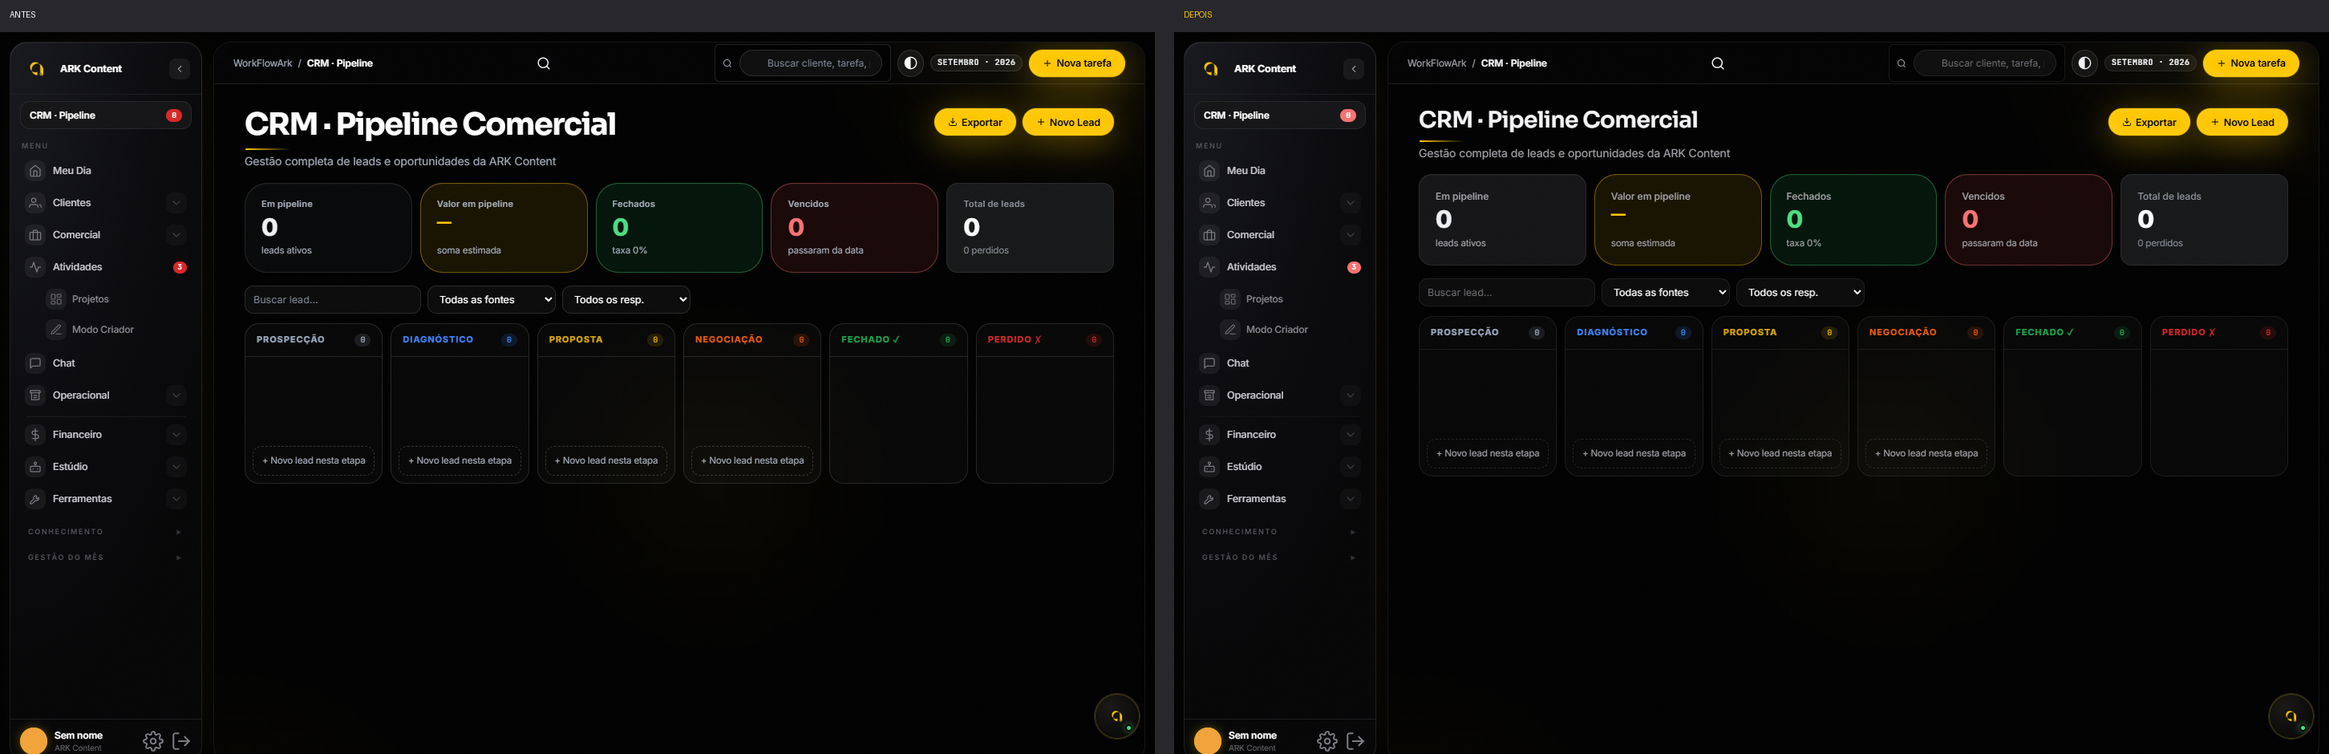
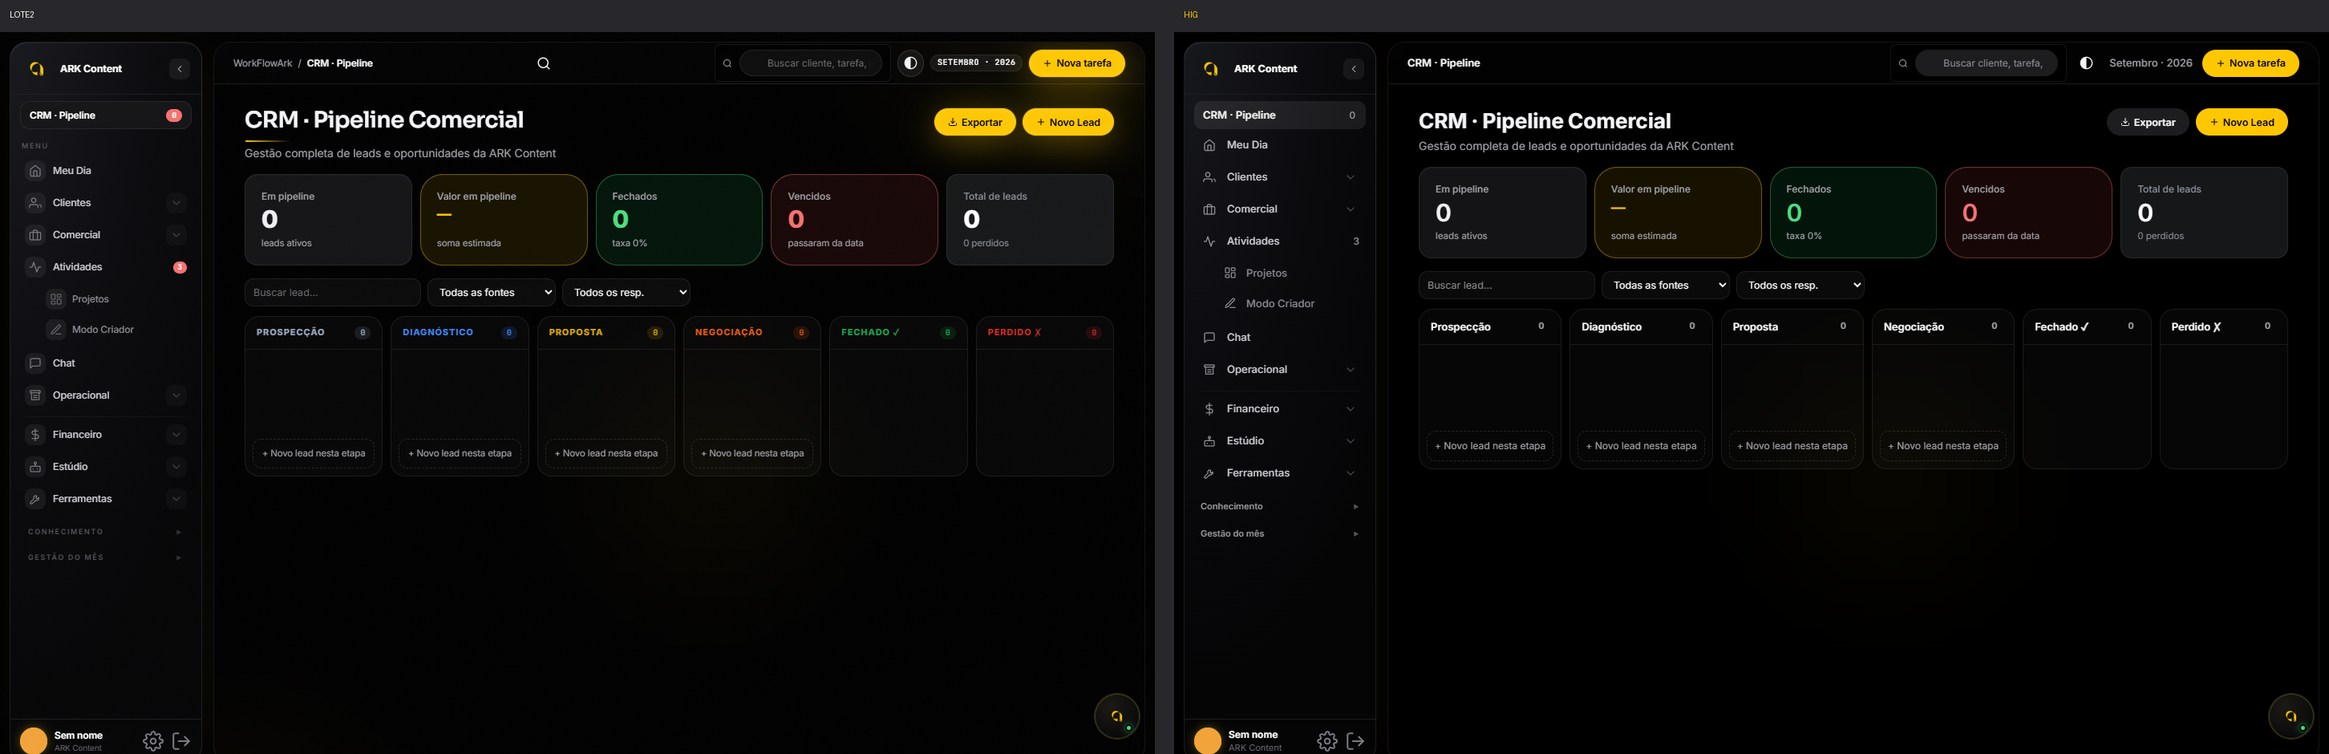
Camada HIG no /app: regras da Apple medidas em 6 telas nos 2 temas, marcador 20260928a-hig-apple
Estudo oficial (52 páginas da HIG) em Documents/WorkFlowArk-Next-2026-09-20/estudo-apple-hig.md.
Nova public/workflowark-hig-20260928a.css, carregada no fim do body:
uma família de texto (Sora só no título da página), pesos 400 a 700,
nada abaixo de 11 px, sem caixa alta nem mono em interface, contraste
4.5:1 com as cores de alto contraste da Apple, amarelo só no item ativo
e na ação principal, contagem da sidebar neutra, sem brilho âmbar,
textura nem esfera no conteúdo, barra do topo sem busca duplicada e sem
o nome do app, botão secundário neutro, foco visível, preferências de
transparência, contraste e movimento do sistema.
Teste deploy/teste-hig.py: 56 violações antes, 0 depois.

diff --git a/public/workflowark-hig-20260928a.css b/public/workflowark-hig-20260928a.css
@@ -1,0 +1,115 @@
+/* WorkFlowArk · camada HIG (28/09/2026).
+   Regras tiradas do estudo oficial da Apple em Documents/WorkFlowArk-Next-2026-09-20/estudo-apple-hig.md
+   (52 páginas da HIG lidas). Carregada no fim do <body> para vencer as camadas antigas; valores vêm de
+   workflowark-tokens-20260927a.css. Teste: python deploy/teste-hig.py
+   Princípios aplicados: uma família de texto (títulos de página em Sora pela marca), pesos de 400 a 700,
+   nada abaixo de 11 px, sem caixa alta, contraste 4.5:1, amarelo só na ação principal e no item ativo,
+   conteúdo sólido sem brilho decorativo, vidro só na navegação, foco visível em tudo. */
+
+/* ---------- Tipografia: uma família, sem caixa alta, sem tracking largo ---------- */
+:is(body.aura-dark,body.aura-light),
+:is(body.aura-dark,body.aura-light) *:not(svg):not(svg *):not(code):not(pre):not(kbd):not(samp){
+  font-family:var(--font-ui)!important;text-transform:none!important;letter-spacing:normal!important}
+:is(body.aura-dark,body.aura-light) :is(.page-head h1,.page-title h1,.aura-saud){
+  font-family:var(--font-title)!important;letter-spacing:-.015em!important}
+:is(body.aura-dark,body.aura-light) :is(h1,h2,h3){letter-spacing:-.01em!important}
+/* Pesos: Regular a Bold. 800 e 900 (178 usos no código) caem para 700 */
+:is(body.aura-dark,body.aura-light) :is([style*="font-weight:800"],[style*="font-weight: 800"],[style*="font-weight:900"],[style*="font-weight: 900"]){font-weight:700!important}
+:is(body.aura-dark,body.aura-light) :is(h4,h5,h6,.v,.n,.dec-n,.dec-urg,.av,.nxc-av,.set-sect-t,.kpi .v,.ahc .n){font-weight:600!important}
+:is(body.aura-dark,body.aura-light) :is(h1,h2,h3,b,strong){font-weight:700!important}
+/* Mínimo de 11 px */
+:is(body.aura-dark,body.aura-light) :is([style*="font-size:7"],[style*="font-size:8"],[style*="font-size:9"],[style*="font-size:10px"],[style*="font-size:10.5px"],[style*="font-size: 9"],[style*="font-size: 10px"]){font-size:11px!important}
+:is(body.aura-dark,body.aura-light) :is(.badge,.ct,.rl,.tc-av,.dec-cli,.dec-urg,.tkacth,.form-label){font-size:11px!important}
+:is(body.aura-dark,body.aura-light) p.muted{font-size:12px!important}
+:is(body.aura-dark,body.aura-light) :is(.av,.tc-av,.nxc-av,i.av){font-size:11px!important;line-height:1!important}
+
+/* ---------- Conteúdo sólido: sem brilho, textura nem esfera decorativa ---------- */
+:is(body.aura-dark,body.aura-light) .main::before,
+:is(body.aura-dark,body.aura-light) .main::after,
+:is(body.aura-dark,body.aura-light) .app::after,
+:is(body.aura-dark,body.aura-light) .aura-hero .sphere,
+:is(body.aura-dark,body.aura-light) .page-head h1::after{display:none!important}
+:is(body.aura-dark,body.aura-light) .aura-hero{background:var(--hero)!important;border:1px solid var(--line)!important;border-radius:16px!important;box-shadow:none!important}
+body.aura-light .aura-hero{border-color:transparent!important}
+
+/* ---------- Sidebar (sidebars): rótulos curtos, amarelo só no item ativo, contagem neutra ---------- */
+:is(body.aura-dark,body.aura-light) .side > .nav-label:not(.collap){display:none!important}
+:is(body.aura-dark,body.aura-light) .side .nav-label{font-size:11px!important;font-weight:600!important;color:var(--side-mute)!important;padding:14px 12px 4px!important}
+:is(body.aura-dark,body.aura-light) .side :is(.navitem,.subitem){font-size:13px!important;border-radius:8px!important;box-shadow:none!important}
+:is(body.aura-dark,body.aura-light) .side :is(.navitem,.subitem)::before{display:none!important}
+:is(body.aura-dark,body.aura-light) .side :is(.navitem,.subitem) svg{color:var(--side-mute)!important;background:transparent!important}
+:is(body.aura-dark,body.aura-light) .side :is(.navitem,.subitem):not(.active):hover{background:var(--side-fill)!important}
+/* Folha ativa: o único amarelo da barra */
+:is(body.aura-dark,body.aura-light) .side .navitem.active[data-nav]:not([data-nav=""]),
+:is(body.aura-dark,body.aura-light) .side .subitem.active{
+  background:var(--yel)!important;color:var(--on-accent)!important;font-weight:600!important}
+:is(body.aura-dark,body.aura-light) .side .navitem.active[data-nav]:not([data-nav=""]) svg,
+:is(body.aura-dark,body.aura-light) .side .subitem.active svg{color:var(--on-accent)!important}
+/* Grupo que contém a folha ativa: só texto forte, sem fundo */
+:is(body.aura-dark,body.aura-light) .side .navitem.active:not([data-nav]),
+:is(body.aura-dark,body.aura-light) .side .navitem.active[data-nav=""]{
+  background:transparent!important;color:var(--side-txt)!important;font-weight:600!important}
+/* Contagem de volume não é alerta: texto secundário, sem pílula vermelha */
+:is(body.aura-dark,body.aura-light) .side :is(.badge,.navitem .badge){
+  background:transparent!important;color:var(--side-mute)!important;border:0!important;box-shadow:none!important;
+  font-size:12px!important;font-weight:500!important;font-variant-numeric:tabular-nums;padding:0 2px!important;min-width:0!important}
+:is(body.aura-dark,body.aura-light) .side :is(.navitem.active,.subitem.active) .badge{color:var(--on-accent)!important}
+:is(body.aura-dark,body.aura-light) .side .crm-pill{background:var(--side-fill)!important;border:0!important;border-radius:10px!important;box-shadow:none!important;font-size:13px!important;font-weight:600!important;color:var(--side-txt)!important}
+
+/* ---------- Barra do topo (toolbars): três zonas, uma ação principal, controles monocromáticos ---------- */
+@media (min-width:901px){
+  :is(body.aura-dark,body.aura-light) #search-toggle-mobile{display:none!important}
+}
+:is(body.aura-dark,body.aura-light) .crumbs > span:first-child,
+:is(body.aura-dark,body.aura-light) .crumbs > span:first-child + .sep{display:none!important}
+:is(body.aura-dark,body.aura-light) .crumbs .here{font-size:13px!important;font-weight:600!important;color:var(--ink)!important}
+:is(body.aura-dark,body.aura-light) .tb-pill{background:transparent!important;border:0!important;color:var(--mute)!important;font-size:13px!important;font-weight:500!important;padding:0 4px!important}
+:is(body.aura-dark,body.aura-light) :is(.tb-btn,.icobtn,.dec-btn,.gbtn){box-shadow:none!important}
+:is(body.aura-dark,body.aura-light) .topbar :is(.tb-btn.tb-ic,.icobtn){background:transparent!important;border-color:transparent!important}
+:is(body.aura-dark,body.aura-light) .topbar :is(.tb-btn.tb-ic,.icobtn):hover{background:var(--fill)!important}
+:is(body.aura-dark,body.aura-light) .tb-search input{background:var(--fill)!important;border-color:transparent!important;box-shadow:none!important}
+
+/* ---------- Cabeçalho da página ---------- */
+:is(body.aura-dark,body.aura-light) :is(.page-head h1,.page-title h1){font-size:26px!important;line-height:32px!important;font-weight:700!important;padding-bottom:0!important;color:var(--ink)!important}
+:is(body.aura-dark,body.aura-light) :is(.page-head p,.page-title p){font-size:14px!important;color:var(--mute)!important}
+:is(body.aura-dark,body.aura-light) .aura-saud{font-weight:700!important}
+
+/* ---------- Kanban, CRM, Configurações: cabeçalhos em texto, não em cartaz ---------- */
+:is(body.aura-dark,body.aura-light) :is(.task-col h4,.crm-col h4,.set-sect-t){font-size:13px!important;color:var(--ink)!important}
+:is(body.aura-dark,body.aura-light) .set-sect-t{margin-top:18px!important}
+:is(body.aura-dark,body.aura-light) :is(.task-col .ct,.crm-col .ct,.ct){background:transparent!important;color:var(--mute)!important;font-variant-numeric:tabular-nums}
+:is(body.aura-dark,body.aura-light) :is(.muted,.tc-vazio,.tkvazio){color:var(--mute)!important}
+:is(body.aura-dark,body.aura-light) .dec-urg{font-weight:600!important}
+
+/* ---------- Modal como sheet: camada elevada, um contorno, sem brilho ---------- */
+:is(body.aura-dark,body.aura-light) :is(.modal,.crm-mbox){background:var(--elev)!important;border:1px solid var(--line)!important;border-radius:16px!important}
+
+/* ---------- Foco visível (focus-and-selection, keyboards) ---------- */
+:is(body.aura-dark,body.aura-light) :is(button,a,input,select,textarea,[tabindex],.navitem,.subitem):focus-visible{
+  outline:2px solid var(--focus)!important;outline-offset:2px!important}
+
+/* ---------- Preferências do sistema (accessibility, materials) ---------- */
+@media (prefers-reduced-transparency:reduce){
+  :is(body.aura-dark,body.aura-light) :is(.side,.topbar,.modal-bg,.crm-modal){backdrop-filter:none!important;-webkit-backdrop-filter:none!important}
+  body.aura-dark .side{background:#111113!important}
+  body.aura-light .side{background:#f2f2f7!important}
+}
+@media (prefers-reduced-motion:reduce){
+  :is(body.aura-dark,body.aura-light) *{animation-duration:.01ms!important;animation-iteration-count:1!important;transition-duration:.12s!important}
+}
+
+/* ---------- Contraste 4.5:1 onde a cor era fixa (accessibility, color: variantes de alto contraste) ---------- */
+body.aura-dark .dec-urg.u2{background:rgba(255,66,69,.16)!important;color:#FF6165!important}
+body.aura-dark .dec-urg.u1{background:rgba(255,214,0,.14)!important;color:#FFD600!important}
+body.aura-light .dec-urg.u2{background:#fdecec!important;color:#B3121F!important}
+body.aura-light .dec-urg.u1{background:#fff6d6!important;color:#7A5200!important}
+body.aura-light #page-tarefas .tf-kpis .kpi.yel .v{color:var(--yel-d)!important}
+body.aura-light #page-tarefas .tf-kpis .kpi.green .v{color:#008932!important}
+body.aura-light .kpi:is(.red,.green,.yel) :is(.l,.d){color:rgba(0,0,0,.72)!important}
+:is(body.aura-dark,body.aura-light) #page-cliente span[style*="86868b"]{color:var(--mute)!important}
+body.aura-light .nxc-tab.on{color:#7A5200!important}
+
+/* ---------- Botões (buttons): no máximo dois em destaque por tela; o secundário é neutro ---------- */
+:is(body.aura-dark,body.aura-light) .tb-btn.alt{background:var(--fill)!important;color:var(--ink)!important;border-color:transparent!important}
+:is(body.aura-dark,body.aura-light) .tb-btn.alt:hover{background:var(--fill-2)!important}
+:is(body.aura-dark,body.aura-light) .crm-add-btn{white-space:nowrap;overflow:hidden;text-overflow:ellipsis;font-size:12px!important}

diff --git a/public/workflowark-tokens-20260927a.css b/public/workflowark-tokens-20260927a.css
@@ -3,13 +3,15 @@
    Tela nova usa estas variáveis; cor solta no código é erro. Teste: deploy/teste-tokens.py
    Valores: doc 11 (Apple no /app) + referência Apple DESIGN.md. Amarelo é o único acento;
    verde e vermelho só em status. Fundo escuro #000 (pedido do Gabriel: preto absoluto). Fundo claro #fbfbfd (o #f5f5f7 foi recusado como off-white gasto).
-   Escala: título 28/600, seção 17/600, corpo 14, rótulo 12 sem caixa alta; raio 16 cartão, 10 botão, 999 chip. */
+   Escala: título 28/600, seção 17/600, corpo 14, rótulo 12 sem caixa alta; raio 16 cartão, 10 botão, 999 chip.
+   Camada HIG (28/09): --mute-2 e --yel-d passam 4.5:1 nos dois temas (cinza #6C6C70 e amarelo #A16A00 são os de alto contraste da Apple);
+   --fill e --sep são valores próprios (a Apple não publica hex dos tokens semânticos). */
 :root{
   --card:var(--surface);
   --bd:var(--line);
   --o:var(--orange);
   --yel:#FFC700;
-  --yel-d:#d4a300;
+  --yel-d:#A16A00;
   --yel-soft:#fff8dc;
   --yel-bg:#fffbeb;
   --red:#dc2626;
@@ -50,7 +52,7 @@
   --ink-2:#1d1d1f;
   --txt:#1d1d1f;
   --mute:#6e6e73;
-  --mute-2:#8e8e93;
+  --mute-2:#6C6C70;
   --line:rgba(0,0,0,.06);
   --line-2:rgba(0,0,0,.1);
   --surface-2:#f5f5f7;
@@ -66,6 +68,14 @@
   --r-chip:999px;
   --sh-panel:0 24px 64px rgba(0,0,0,.18);
   --on-accent:#131316;
+  --font-ui:'Inter',-apple-system,BlinkMacSystemFont,system-ui,'Segoe UI',sans-serif;
+  --font-title:'Sora',var(--font-ui);
+  --fill:rgba(120,120,128,.12);
+  --fill-2:rgba(120,120,128,.2);
+  --focus:#A16A00;
+  --elev:#ffffff;
+  --hero:#1C1C1E;
+  --sep:rgba(60,60,67,.18);
 }
 body.aura-dark{
   --bg:#000000;
@@ -74,7 +84,7 @@ body.aura-dark{
   --ink-2:#F5F5F7;
   --txt:#F5F5F7;
   --mute:#A1A1A6;
-  --mute-2:#6E6E73;
+  --mute-2:#8E8E93;
   --line:rgba(255,255,255,.08);
   --line-2:rgba(255,255,255,.12);
   --yel-soft:rgba(255,199,0,.14);
@@ -94,4 +104,22 @@ body.aura-dark{
   --sh-panel:0 24px 64px rgba(0,0,0,.45);
   --card:var(--surface);
   --bd:var(--line);
+  --fill:rgba(120,120,128,.24);
+  --fill-2:rgba(120,120,128,.32);
+  --focus:#FFD600;
+  --yel-d:#FFD600;
+  --elev:#1C1C1F;
+  --hero:var(--surface);
+  --sep:rgba(84,84,88,.6);
+}
+/* Aumentar contraste do sistema (accessibility): bordas e texto secundário mais fortes */
+@media (prefers-contrast:more){
+  body.aura-dark{--line:rgba(255,255,255,.28);--mute:#C7C7CC}
+  body.aura-light{--line:rgba(0,0,0,.28);--mute:#48484A}
+}
+/* Sidebar: escura nos dois temas, então tem paleta própria (texto 4.5:1 sobre o fundo dela) */
+.side{
+  --side-txt:rgba(255,255,255,.92);
+  --side-mute:#98989D;
+  --side-fill:rgba(255,255,255,.08);
 }

diff --git a/public/workflowark.html b/public/workflowark.html
@@ -1,4 +1,4 @@
-<!-- build 20260927a-tokens-apple -->
+<!-- build 20260928a-hig-apple -->
 <html lang="pt-BR">
 <head>
 <meta charset="utf-8">
@@ -46,7 +46,7 @@
 <link rel="preconnect" href="https://fonts.googleapis.com">
 <link rel="preconnect" href="https://fonts.gstatic.com" crossorigin>
 <link rel="preconnect" href="https://cdn.jsdelivr.net">
-<link href="https://fonts.googleapis.com/css2?family=Inter:wght@400;500;600;700;800&family=Sora:wght@400;500;600;700;800&family=JetBrains+Mono:wght@500;600&display=swap" rel="stylesheet">
+<link href="https://fonts.googleapis.com/css2?family=Inter:wght@400;500;600;700&family=Sora:wght@400;500;600;700&family=JetBrains+Mono:wght@500;600&display=swap" rel="stylesheet">
 <script src="https://cdn.jsdelivr.net/npm/animejs@4/lib/anime.iife.min.js" defer></script>
 <link rel="stylesheet" href="workflowark-tokens-20260927a.css">
 <link rel="stylesheet" href="workflowark-20260927a.css">
@@ -4749,5 +4749,6 @@ function wfaSetTheme(t){
 <script type="module">import * as C from "./workflowark-criador-20260926a.js";window.WFA_CRIADOR=C;try{if(document.querySelector("#page-criador.active"))criadorRender();}catch(e){}</script>
 <script type="module">import * as F from "./workflowark-financeiro-20260926a.js";window.WFA_FIN=F;try{fxRender();}catch(e){}try{iniRender();}catch(e){}</script>
 <script src="workflowark-cliente-20260922d.js" defer></script>
+<link rel="stylesheet" href="workflowark-hig-20260928a.css">
 </body>
 </html>

diff --git a/deploy/teste-hig.py b/deploy/teste-hig.py
@@ -1,0 +1,107 @@
+# -*- coding: utf-8 -*-
+"""Regras da Apple HIG medidas no /app (estudo em Documents/WorkFlowArk-Next-2026-09-20/estudo-apple-hig.md).
+Uso: python deploy/teste-hig.py [url-base] [--relatorio]
+Sem url: sobe public/ num servidor local com carteira sintética. Sai 1 se alguma regra quebrar.
+
+Por tela (Meu Dia, Kanban, modal da tarefa, CRM, Área do Cliente, Configurações) nos temas claro e escuro:
+  1. nenhum texto visível abaixo de 11 px                       (typography: mínimo macOS 10, iOS 11)
+  2. nenhum texto em caixa alta por CSS                          (typography, writing)
+  3. nenhum texto com peso acima de 700                          (typography: Regular a Bold)
+  4. nenhuma fonte mono em texto de interface                    (typography: minimizar famílias)
+  5. contraste de texto >= 4.5:1 (>= 3:1 se >= 18 px ou >= 700)  (accessibility)
+  6. no máximo 1 item com fundo amarelo na sidebar               (sidebars, color: acento só no ativo)
+"""
+import sys, os, json, threading, http.server, socketserver, functools
+from playwright.sync_api import sync_playwright
+
+os.chdir(os.path.join(os.path.dirname(os.path.abspath(__file__)), '..'))
+args = [a for a in sys.argv[1:] if not a.startswith('--')]
+RELATORIO = '--relatorio' in sys.argv
+base = args[0] if args else None
+srv = None
+if not base:
+    class Q(http.server.SimpleHTTPRequestHandler):
+        def log_message(self, *a): pass
+    socketserver.TCPServer.allow_reuse_address = True
+    srv = socketserver.TCPServer(('127.0.0.1', 5193), functools.partial(Q, directory='public'))
+    threading.Thread(target=srv.serve_forever, daemon=True).start()
+    base = 'http://127.0.0.1:5193'
+
+sess = {'access_token': 't', 'refresh_token': 't', 'token_type': 'bearer', 'expires_in': 3600, 'expires_at': 4102444800,
+        'user': {'id': '0', 'email': 'teste@local', 'user_metadata': {'full_name': 'Equipe Demo'}}}
+tarefas = [
+    {'id': 't1', 'title': 'Reel de lançamento', 'status': 'andamento', 'resp': 'Ana Souza', 'clienteId': 'vivenda', 'data': '2026-09-28', 'formato': 'reel', 'up': '2026-09-27T12:00:00.000Z', 'desc': 'Gravar na loja.'},
+    {'id': 't2', 'title': 'Story da semana', 'status': 'homologcli', 'resp': 'Bruno Lima', 'clienteId': 'vivenda', 'data': '2026-09-27', 'formato': 'story', 'up': '2026-09-27T12:00:00.000Z'},
+    {'id': 't4', 'title': 'Relatório de anúncios', 'status': 'backlog', 'resp': 'Carla Dias', 'clienteId': 'fercon', 'data': '2026-09-25', 'up': '2026-09-27T12:00:00.000Z'},
+]
+
+MEDIR = r"""() => {
+  const lum = c => { const m = c.match(/[\d.]+/g); if (!m) return null; const [r,g,b] = m.slice(0,3).map(v => { v = v/255; return v <= .03928 ? v/12.92 : Math.pow((v+.055)/1.055, 2.4); }); return .2126*r + .7152*g + .0722*b; };
+  const alfa = c => { const m = c.match(/[\d.]+/g); return m && m.length > 3 ? +m[3] : 1; };
+  const fundo = el => { for (let e = el; e; e = e.parentElement) { const s = getComputedStyle(e);
+      if (s.backgroundImage && s.backgroundImage !== 'none') return null;
+      if (alfa(s.backgroundColor) >= .95) return s.backgroundColor; }
+    return getComputedStyle(document.body).backgroundColor; };
+  const visivel = el => { const r = el.getBoundingClientRect(); if (r.width < 2 || r.height < 2 || r.bottom < 0 || r.top > innerHeight || r.right < 0 || r.left > innerWidth) return false;
+    for (let e = el; e; e = e.parentElement) { const s = getComputedStyle(e); if (s.display === 'none' || s.visibility === 'hidden' || +s.opacity < .2) return false; } return true; };
+  const q = { pequeno: [], caixaAlta: [], pesado: [], mono: [], contraste: [], amareloSidebar: 0 };
+  const topo = document.querySelector('.modal-bg.open, .modal.open, #task-detail.open, .settings-modal.open');
+  for (const el of document.querySelectorAll('body *')) {
+    if (topo && !topo.contains(el) && !el.closest('.side')) continue;
+    const t = [...el.childNodes].filter(n => n.nodeType === 3).map(n => n.textContent.trim()).join(' ').trim();
+    if (!t || !/[A-Za-zÀ-ú0-9]/.test(t) || el.closest('svg,code,pre,kbd,textarea,script,style')) continue;
+    if (!visivel(el)) continue;
+    const s = getComputedStyle(el), px = parseFloat(s.fontSize), w = +s.fontWeight, rot = (el.tagName + '.' + (el.className && el.className.baseVal === undefined ? el.className : '')).slice(0, 50) + ' "' + t.slice(0, 24) + '"';
+    if (px < 11) q.pequeno.push(px + 'px ' + rot);
+    if (s.textTransform === 'uppercase' && /[a-zà-ú]/i.test(t)) q.caixaAlta.push(rot);
+    if (w > 700) q.pesado.push(w + ' ' + rot);
+    if (/mono/i.test(s.fontFamily)) q.mono.push(rot);
+    const bg = fundo(el);
+    if (bg && alfa(s.color) > .5) { const a = lum(s.color), b = lum(bg); const cr = (Math.max(a,b)+.05)/(Math.min(a,b)+.05);
+      const min = (px >= 18 || w >= 700) ? 3 : 4.5; if (cr < min) q.contraste.push(cr.toFixed(2) + ' ' + rot + ' ' + s.color + ' em ' + bg); }
+  }
+  for (const n of document.querySelectorAll('.side .navitem, .side .subitem, .side .crm-pill')) {
+    const c = getComputedStyle(n).backgroundColor.match(/[\d.]+/g); if (c && +c[0] > 230 && +c[1] > 170 && +c[1] < 215 && +c[2] < 60 && alfa(getComputedStyle(n).backgroundColor) > .5) q.amareloSidebar++; }
+  return q;
+}"""
+
+falhas, total = [], {}
+with sync_playwright() as pw:
+    b = pw.chromium.launch(channel='chrome', headless=True)
+    for tema in ('dark', 'light'):
+        ctx = b.new_context(viewport={'width': 1440, 'height': 900})
+        ctx.add_init_script("try{localStorage.setItem('sb-fxfnonozzekxnxddxsnh-auth-token',%s);localStorage.setItem('wfa-theme','%s');localStorage.setItem('wfa-tarefas',%s);}catch(e){}"
+                            % (json.dumps(json.dumps(sess)), tema, json.dumps(json.dumps(tarefas))))
+        p = ctx.new_page()
+        p.goto(base + '/workflowark.html', wait_until='load'); p.wait_for_timeout(3000)
+        def tema_certo():
+            p.evaluate("t => { document.body.classList.toggle('aura-dark', t === 'dark'); document.body.classList.toggle('aura-light', t === 'light'); }", tema)
+        def nav(n):
+            p.evaluate("n => { const el = document.querySelector('[data-nav=' + n + ']'); el && el.click(); }", n); p.wait_for_timeout(700); tema_certo()
+        telas = []
+        nav('dashboard'); telas.append(('inicio', p.evaluate(MEDIR)))
+        nav('tarefas'); telas.append(('kanban', p.evaluate(MEDIR)))
+        p.evaluate("() => { try { openTaskDetail('t1'); } catch (e) {} }"); p.wait_for_timeout(600); tema_certo(); telas.append(('tarefa', p.evaluate(MEDIR)))
+        p.goto(base + '/workflowark.html', wait_until='load'); p.wait_for_timeout(2500)
+        nav('crm'); telas.append(('crm', p.evaluate(MEDIR)))
+        nav('cliente'); p.evaluate("() => { const s = document.getElementById('cli-area-sel'); if (s) { s.value = 'vivenda'; if (typeof cliAreaSelect === 'function') cliAreaSelect('vivenda'); } }"); p.wait_for_timeout(500); tema_certo()
+        telas.append(('cliente', p.evaluate(MEDIR)))
+        p.evaluate("() => { try { openSettings(); } catch (e) {} }"); p.wait_for_timeout(500); tema_certo(); telas.append(('config', p.evaluate(MEDIR)))
+        for nome, q in telas:
+            chave = '%s-%s' % (nome, tema)
+            total[chave] = {k: (v if isinstance(v, int) else len(v)) for k, v in q.items()}
+            for regra, lim in (('pequeno', 0), ('caixaAlta', 0), ('pesado', 0), ('mono', 0), ('contraste', 0)):
+                if len(q[regra]) > lim:
+                    falhas.append('%s %s: %d (%s)' % (chave, regra, len(q[regra]), ' | '.join(q[regra][:40])))
+            if q['amareloSidebar'] > 1:
+                falhas.append('%s amareloSidebar: %d itens com fundo amarelo' % (chave, q['amareloSidebar']))
+        ctx.close()
+    b.close()
+if srv: srv.shutdown()
+if RELATORIO:
+    print('%-14s %8s %9s %7s %5s %9s %7s' % ('tela', 'pequeno', 'caixaAlta', 'pesado', 'mono', 'contraste', 'amarelo'))
+    for k, v in total.items():
+        print('%-14s %8d %9d %7d %5d %9d %7d' % (k, v['pequeno'], v['caixaAlta'], v['pesado'], v['mono'], v['contraste'], v['amareloSidebar']))
+if falhas:
+    print('FALHA (%d)' % len(falhas)); [print(' -', f) for f in falhas]; sys.exit(1)
+print('OK: 6 telas x 2 temas dentro das regras da HIG')
